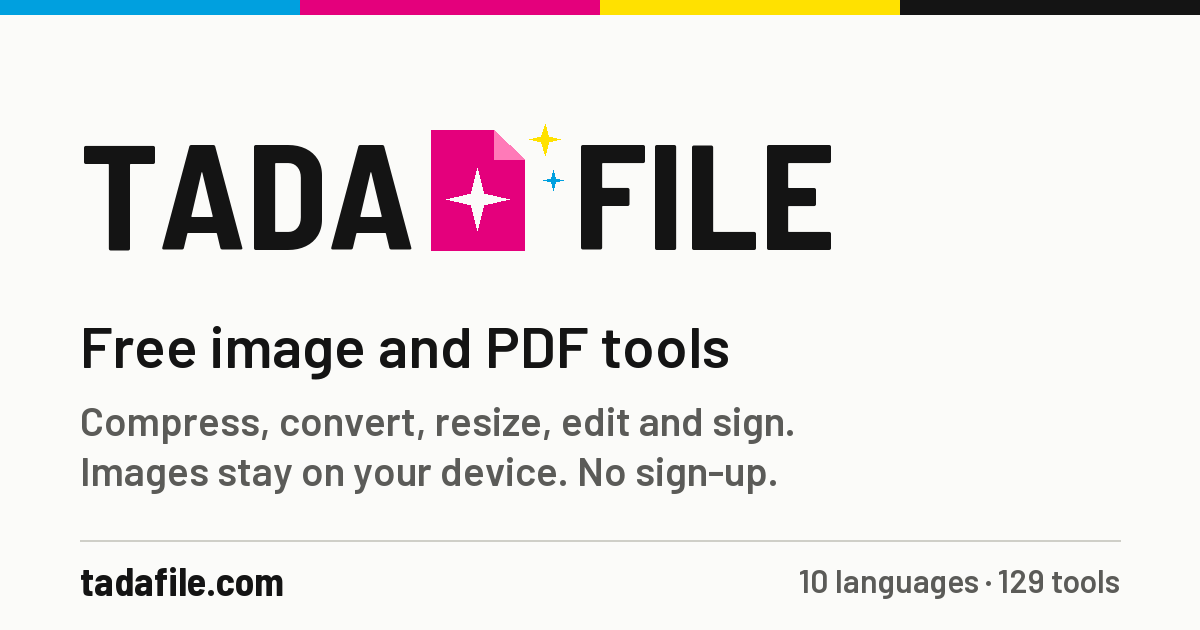
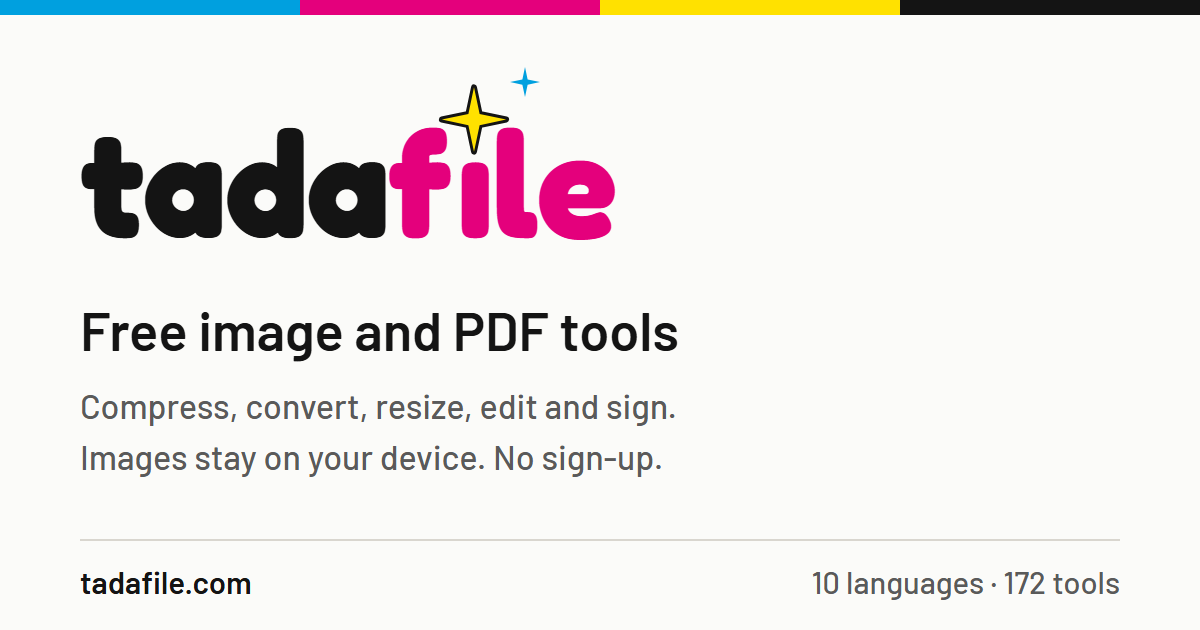
feat: new wordmark - "tadafile" with a sparkle for the dot of the i
- Lowercase Fredoka 700: "tada" in ink, "file" in magenta; the i's dot is a yellow
  sparkle with a thin ink edge plus a small cyan one (site's print colours)
- Font cut to the 7 letters used (1.9 KB woff, preloaded), SIL OFL licence shipped
  in public/fonts; screen readers still get "TadaFile"
- Header 30px, footer 32px (lowercase needs more size than the old capitals)
- og.png redrawn with the new logo and the current 172 tools
- DESIGN.md records the wordmark font and construction

diff --git a/src/styles/global.css b/src/styles/global.css
@@ -5,6 +5,16 @@
 @import '@fontsource/barlow-semi-condensed/600.css';
 @import '@fontsource/barlow-semi-condensed/700.css';
 
+/* Wordmark only: Fredoka 700 (SIL OFL, public/fonts/Fredoka-OFL.txt) cut down to "t a d f l e" and the dotless "ı",
+   under 2 KB. Blocking briefly is fine at this size and avoids the logo flashing in another font */
+@font-face {
+  font-family: 'TadaFile Logo';
+  src: url('/fonts/tadafile-logo.woff') format('woff');
+  font-weight: 700;
+  font-display: block;
+  unicode-range: U+0061, U+0064, U+0065, U+0066, U+006C, U+0074, U+0131;
+}
+
 @tailwind base;
 @tailwind components;
 @tailwind utilities;

diff --git a/DESIGN.md b/DESIGN.md
@@ -85,6 +85,12 @@ typography:
     fontSize: "13px"
     fontWeight: 400
     lineHeight: 1.625
+  wordmark:
+    fontFamily: "TadaFile Logo, Barlow, system-ui, sans-serif"
+    fontSize: "30px"
+    fontWeight: 700
+    lineHeight: 1
+    letterSpacing: "-0.01em"
 rounded:
   none: "0"
   field: "8px"
@@ -314,7 +320,7 @@ Ink on paper: one solid action, everything else ruled.
 
 ### Navigation (masthead)
 - **Style:** sticky paper-bright bar with a 1px pencil bottom rule, topped by the 6px CMYK color bar (cyan, magenta, yellow, key in four equal blocks).
-- **Wordmark:** registration-target line glyph plus the site name as live text (Semi Condensed 700, 17px, uppercase, 0.04em). The name is swappable text, never artwork.
+- **Wordmark:** lowercase "tadafile" in "TadaFile Logo" (Fredoka 700, SIL OFL, cut down to the letters t a d f ı l e, under 2 KB; `public/fonts/`): "tada" in key ink, "file" in process magenta, and the dot of the "i" is a process-yellow sparkle with a thin key-ink edge plus a small cyan sparkle. Header 30px, footer 32px (lowercase needs more size than the old capitals to hold the same presence). The plain name is screen-reader text; the drawn word is decorative. The font is used for the wordmark only.
 - **Links:** five categories (all but Developer) as pills on their category tint, key-ink Barlow 500 15px, underline on hover; shown from xl up. They use the short category names (Edit, Compress, Convert, PDF, Utilities) in every language: the full names of five categories overflow the 1280px masthead next to search and language. Tool search trigger and language selector are ruled buttons on the right.
 
 ### Lists and index
